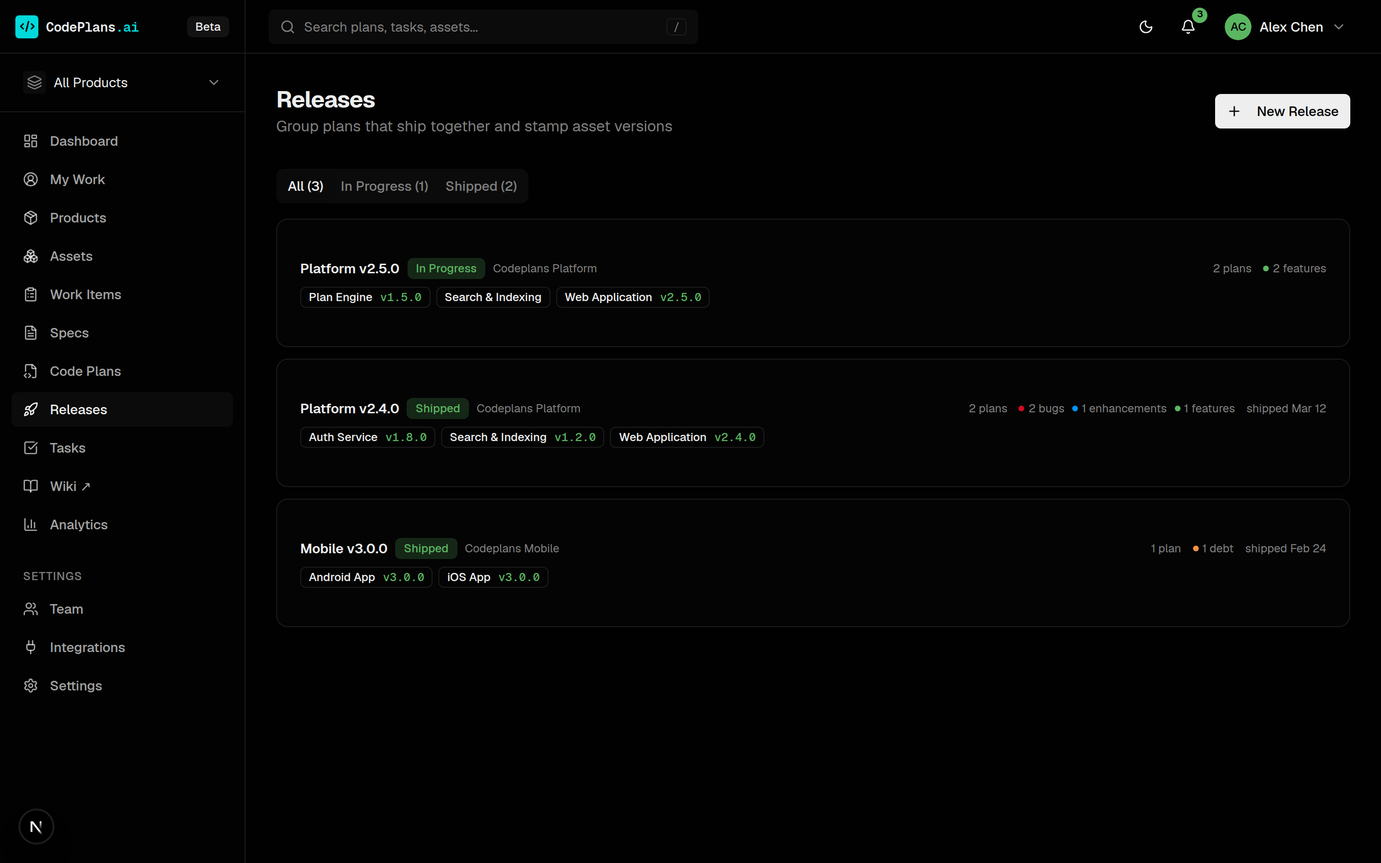
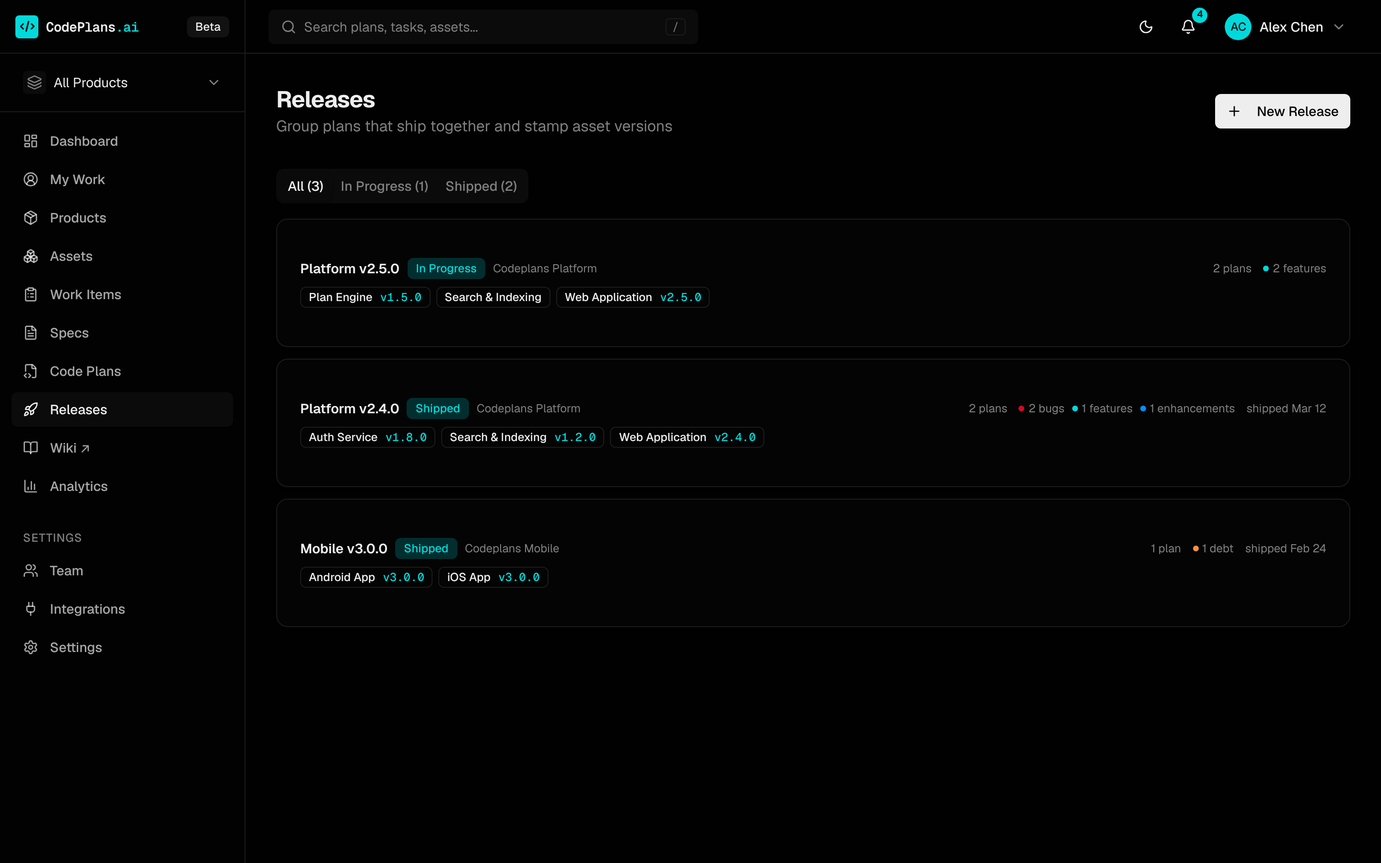
Docs site: retake every app screenshot with the teal accent
Retakes the 27 app screenshots on the site from the demo workspace
(pnpm db:seed-demo) in the same states as before, so they show the teal
accent and the current sidebar (no Tasks page). The notification shots use
real deliveries, sent to a local stand-in for Resend and Slack.

The wiki screenshots were taken from a private "Atlas Platform" workspace
that isn't in the repo; they are now from the demo product, with captions to
match. Image width and height attributes follow the new files, and the
unused search-results.png is gone. The email and Slack renderings are
unchanged; they don't use the app's accent.

Claude-Session: https://claude.ai/code/session_01S4TnKMMhfyax9SrxJkMcDM

diff --git a/docs/my-work.html b/docs/my-work.html
@@ -20,7 +20,7 @@
 </nav>
 <section class="page-hero"><div class="container"><div class="crumb"><a href="index.html">CodePlans</a> / My Work</div><h1>What needs you, and why</h1><p class="hero-sub">My Work turns responsibilities into a personal inbox. Notifications reach people in-app, by email and in Slack, with admin controls that stay simple for small teams.</p><div class="links"><a href="https://github.com/SylonZero/CodePlans/blob/master/docs/guides/my-work.md">My Work guide</a><a href="https://github.com/SylonZero/CodePlans/blob/master/docs/guides/notifications.md">Notifications guide</a></div></div></section>
 <main>
-<div class="container"><div class="feature-row"><div class="row-text"><div class="section-label">My Work</div><h2>An inbox shaped by your responsibilities</h2><p><strong>Needs you</strong> lists what is blocked on you, each item starting with a verb and saying why it is yours (for example <em>code owner · API Gateway</em>). <strong>In flight</strong> groups your tasks by plan with their specs, and <strong>Watching</strong> shows changes to things you are responsible for.</p><p>If you hold several responsibilities, <strong>View as</strong> switches between Developer, Code owner, Architect and Eng manager lenses.</p><p><a class="more" href="https://github.com/SylonZero/CodePlans/blob/master/docs/guides/my-work.md">Read the guide →</a></p></div><div class="row-media"><figure class="shot "><a href="screenshots/my-work.png" aria-label="Open full size: Mike’s My Work as a code owner: plan reviews, triage and mentions"><img src="screenshots/my-work.png" alt="Mike’s My Work as a code owner: plan reviews, triage and mentions" width="2880" height="1800" loading="lazy"></a></figure></div></div><div class="feature-row flip"><div class="row-text"><div class="section-label">Lenses</div><h2>Each role gets its own panels</h2><p>Engineering managers see plans at risk, release readiness and work merged but not shipped. Architects see reviews in their area. Code owners see their assets and capabilities delivered against an older spec.</p><p><strong>Evidence gaps</strong> ask the person who can fix the record: a completed plan with no PR, a release asset with no version stamp, a feature never graduated.</p></div><div class="row-media"><figure class="shot "><a href="screenshots/my-work-manager.png" aria-label="Open full size: Alex’s My Work as an engineering manager, with triage and an evidence gap"><img src="screenshots/my-work-manager.png" alt="Alex’s My Work as an engineering manager, with triage and an evidence gap" width="2880" height="1800" loading="lazy"></a></figure></div></div><div class="feature-row"><div class="row-text"><div class="section-label">The bell</div><h2>Notifications with a reason</h2><p>The bell shows unread notifications. Each says why you got it, and nobody is told about their own actions. Opening one marks it read; items can be marked done or snoozed from My Work.</p></div><div class="row-media"><figure class="shot plain"><a href="screenshots/notification-bell.png" aria-label="Open full size: The notification bell with a mention and review requests"><img src="screenshots/notification-bell.png" alt="The notification bell with a mention and review requests" width="1174" height="1038" loading="lazy"></a></figure></div></div><div class="feature-row flip"><div class="row-text"><div class="section-label">Email & Slack</div><h2>Delivered where your team already is</h2><p>Admins connect <strong>Resend</strong> (an API key and a verified sender) and a <strong>Slack incoming webhook</strong>, then choose which events notify in-app, by email and in Slack. Test sends show the provider’s answer, and keys are encrypted at rest.</p><ul><li><strong>Required</strong> events (review requests, changes requested, mentions) always reach people in-app.</li><li>Sends go through an outbox with retries and backoff, visible under Recent deliveries.</li></ul><p><a class="more" href="https://github.com/SylonZero/CodePlans/blob/master/docs/guides/notifications.md">Read the guide →</a></p></div><div class="row-media"><figure class="shot "><a href="screenshots/notification-settings.png" aria-label="Open full size: Workspace notifications: Resend and Slack connected, and the events table"><img src="screenshots/notification-settings.png" alt="Workspace notifications: Resend and Slack connected, and the events table" width="2880" height="1800" loading="lazy"></a></figure></div></div><div class="feature-row"><div class="row-text"><h2>One template, two channels</h2><p>Email explains why you were told and links to your settings. Slack gets one post per event, worded for the whole channel.</p></div><div class="row-media"><div class="shot-grid"><figure class="shot plain"><a href="screenshots/notification-email.png" aria-label="Open full size: A review request email"><img src="screenshots/notification-email.png" alt="A review request email" width="1280" height="800" loading="lazy"></a></figure><figure class="shot plain"><a href="screenshots/notification-slack.png" aria-label="Open full size: The same event posted to Slack"><img src="screenshots/notification-slack.png" alt="The same event posted to Slack" width="1280" height="520" loading="lazy"></a></figure></div><div style="margin-top:20px"><figure class="shot plain"><a href="screenshots/notification-deliveries.png" aria-label="Open full size: Recent deliveries: emails and a Slack post, all sent"><img src="screenshots/notification-deliveries.png" alt="Recent deliveries: emails and a Slack post, all sent" width="2240" height="758" loading="lazy"></a></figure></div></div></div><div class="feature-row flip"><div class="row-text"><div class="section-label">Your settings</div><h2>Turn email down, mute what you don’t need</h2><p>Anyone can turn off all email or email for single events, which only ever narrows what admins turned on. <strong>Mute</strong> on a product or asset page stops notifications about it, except review requests and mentions.</p></div><div class="row-media"><div class="shot-stack"><figure class="shot "><a href="screenshots/notification-preferences.png" aria-label="Open full size: Personal email settings per event"><img src="screenshots/notification-preferences.png" alt="Personal email settings per event" width="2880" height="1800" loading="lazy"></a></figure><figure class="shot plain"><a href="screenshots/notification-mutes.png" aria-label="Open full size: Muted products and assets with an Unmute button"><img src="screenshots/notification-mutes.png" alt="Muted products and assets with an Unmute button" width="2304" height="364" loading="lazy"></a></figure></div></div></div></div>
+<div class="container"><div class="feature-row"><div class="row-text"><div class="section-label">My Work</div><h2>An inbox shaped by your responsibilities</h2><p><strong>Needs you</strong> lists what is blocked on you, each item starting with a verb and saying why it is yours (for example <em>code owner · API Gateway</em>). <strong>In flight</strong> groups your tasks by plan with their specs, and <strong>Watching</strong> shows changes to things you are responsible for.</p><p>If you hold several responsibilities, <strong>View as</strong> switches between Developer, Code owner, Architect and Eng manager lenses.</p><p><a class="more" href="https://github.com/SylonZero/CodePlans/blob/master/docs/guides/my-work.md">Read the guide →</a></p></div><div class="row-media"><figure class="shot "><a href="screenshots/my-work.png" aria-label="Open full size: Mike’s My Work as a code owner: plan reviews, triage and mentions"><img src="screenshots/my-work.png" alt="Mike’s My Work as a code owner: plan reviews, triage and mentions" width="2880" height="1800" loading="lazy"></a></figure></div></div><div class="feature-row flip"><div class="row-text"><div class="section-label">Lenses</div><h2>Each role gets its own panels</h2><p>Engineering managers see plans at risk, release readiness and work merged but not shipped. Architects see reviews in their area. Code owners see their assets and capabilities delivered against an older spec.</p><p><strong>Evidence gaps</strong> ask the person who can fix the record: a completed plan with no PR, a release asset with no version stamp, a feature never graduated.</p></div><div class="row-media"><figure class="shot "><a href="screenshots/my-work-manager.png" aria-label="Open full size: Alex’s My Work as an engineering manager, with triage and an evidence gap"><img src="screenshots/my-work-manager.png" alt="Alex’s My Work as an engineering manager, with triage and an evidence gap" width="2880" height="1800" loading="lazy"></a></figure></div></div><div class="feature-row"><div class="row-text"><div class="section-label">The bell</div><h2>Notifications with a reason</h2><p>The bell shows unread notifications. Each says why you got it, and nobody is told about their own actions. Opening one marks it read; items can be marked done or snoozed from My Work.</p></div><div class="row-media"><figure class="shot plain"><a href="screenshots/notification-bell.png" aria-label="Open full size: The notification bell with a mention and review requests"><img src="screenshots/notification-bell.png" alt="The notification bell with a mention and review requests" width="808" height="1130" loading="lazy"></a></figure></div></div><div class="feature-row flip"><div class="row-text"><div class="section-label">Email & Slack</div><h2>Delivered where your team already is</h2><p>Admins connect <strong>Resend</strong> (an API key and a verified sender) and a <strong>Slack incoming webhook</strong>, then choose which events notify in-app, by email and in Slack. Test sends show the provider’s answer, and keys are encrypted at rest.</p><ul><li><strong>Required</strong> events (review requests, changes requested, mentions) always reach people in-app.</li><li>Sends go through an outbox with retries and backoff, visible under Recent deliveries.</li></ul><p><a class="more" href="https://github.com/SylonZero/CodePlans/blob/master/docs/guides/notifications.md">Read the guide →</a></p></div><div class="row-media"><figure class="shot "><a href="screenshots/notification-settings.png" aria-label="Open full size: Workspace notifications: Resend and Slack connected, and the events table"><img src="screenshots/notification-settings.png" alt="Workspace notifications: Resend and Slack connected, and the events table" width="2880" height="1800" loading="lazy"></a></figure></div></div><div class="feature-row"><div class="row-text"><h2>One template, two channels</h2><p>Email explains why you were told and links to your settings. Slack gets one post per event, worded for the whole channel.</p></div><div class="row-media"><div class="shot-grid"><figure class="shot plain"><a href="screenshots/notification-email.png" aria-label="Open full size: A review request email"><img src="screenshots/notification-email.png" alt="A review request email" width="1280" height="800" loading="lazy"></a></figure><figure class="shot plain"><a href="screenshots/notification-slack.png" aria-label="Open full size: The same event posted to Slack"><img src="screenshots/notification-slack.png" alt="The same event posted to Slack" width="1280" height="520" loading="lazy"></a></figure></div><div style="margin-top:20px"><figure class="shot plain"><a href="screenshots/notification-deliveries.png" aria-label="Open full size: Recent deliveries: emails and a Slack post, all sent"><img src="screenshots/notification-deliveries.png" alt="Recent deliveries: emails and a Slack post, all sent" width="2240" height="1076" loading="lazy"></a></figure></div></div></div><div class="feature-row flip"><div class="row-text"><div class="section-label">Your settings</div><h2>Turn email down, mute what you don’t need</h2><p>Anyone can turn off all email or email for single events, which only ever narrows what admins turned on. <strong>Mute</strong> on a product or asset page stops notifications about it, except review requests and mentions.</p></div><div class="row-media"><div class="shot-stack"><figure class="shot "><a href="screenshots/notification-preferences.png" aria-label="Open full size: Personal email settings per event"><img src="screenshots/notification-preferences.png" alt="Personal email settings per event" width="2880" height="1800" loading="lazy"></a></figure><figure class="shot plain"><a href="screenshots/notification-mutes.png" aria-label="Open full size: Muted products and assets with an Unmute button"><img src="screenshots/notification-mutes.png" alt="Muted products and assets with an Unmute button" width="2240" height="300" loading="lazy"></a></figure></div></div></div></div>
 </main>
 <div class="container"><div class="page-nav"><a href="reviews.html"><span>← Previous</span>Reviews</a><a class="next" href="agents.html"><span>Next →</span>AI agents</a></div></div>
 <footer>

diff --git a/docs/specs.html b/docs/specs.html
@@ -21,10 +21,10 @@
 <section class="page-hero"><div class="container"><div class="crumb"><a href="index.html">CodePlans</a> / Specs & Wiki</div><h1>Keep the spec connected to what shipped</h1><p class="hero-sub">Specs describe intent. CodePlans keeps every version, shows what changed, and records which version each delivered capability implemented. The Product Wiki makes it all readable.</p><div class="links"><a href="https://github.com/SylonZero/CodePlans/blob/master/docs/guides/using-specs.md">Specs guide</a><a href="https://github.com/SylonZero/CodePlans/blob/master/docs/guides/product-wiki.md">Wiki guide</a><a href="https://github.com/SylonZero/CodePlans/blob/master/docs/guides/capturing-docs.md">Capturing a docs corpus</a></div></div></section>
 <main>
 <div class="container"><div class="feature-row"><div class="row-text"><div class="section-label">Native specs</div><h2>Specs that live next to the work</h2><p>Author a spec in CodePlans, give it a type and optional area, and link one document to the assets, plans and work items it governs. Plans declare whether they <strong>create</strong>, <strong>revise</strong> or <strong>reference</strong> it.</p><p>The Specs page separates current specs from those <strong>in review</strong> (including fresh imports waiting to be checked) and the archive.</p><p><a class="more" href="https://github.com/SylonZero/CodePlans/blob/master/docs/guides/using-specs.md">Read the guide →</a></p></div><div class="row-media"><figure class="shot "><a href="screenshots/specs.png" aria-label="Open full size: The Specs list with current, in review and archived tabs"><img src="screenshots/specs.png" alt="The Specs list with current, in review and archived tabs" width="2880" height="1800" loading="lazy"></a></figure></div></div><div class="feature-row flip"><div class="row-text"><div class="section-label">Version history</div><h2>Every revision kept, every change visible</h2><p>Each change to the title or text is a new version with its full text retained. Open any earlier version read-only, or diff it against its predecessor. Activating, archiving or reclassifying a spec happens in place from the action bar at the top of the page: no new version, and approvals stay put.</p><p>When a capability was delivered against v1 and the spec moves to v2, the asset record shows both, without rewriting the delivery receipt.</p></div><div class="row-media"><figure class="shot "><a href="screenshots/spec-history.png" aria-label="Open full size: Changes from v2 to v3 of a spec, with the version history below"><img src="screenshots/spec-history.png" alt="Changes from v2 to v3 of a spec, with the version history below" width="2880" height="1800" loading="lazy"></a></figure></div></div><div class="feature-row"><div class="row-text"><div class="section-label">Editor</div><h2>Write specs in a proper editor</h2><p><strong>Edit</strong> slides a wide editor in from the side, with a toolbar for headings, lists, task lists, tables, code, links and Mermaid diagrams. Paste markdown from a README or a chat and it becomes formatting; switch to <strong>Markdown</strong> to edit the source directly.</p><p>Text is stored as clean markdown, the same text agents read over MCP. Saving creates the next version with an optional change summary; type and area save in place on the Details tab.</p><p><a class="more" href="https://github.com/SylonZero/CodePlans/blob/master/docs/guides/using-specs.md#writing-in-the-editor">Read the guide →</a></p></div><div class="row-media"><figure class="shot "><a href="screenshots/spec-editor.png" aria-label="Open full size: The slide-in spec editor with a pasted markdown table and task list"><img src="screenshots/spec-editor.png" alt="The slide-in spec editor with a pasted markdown table and task list" width="2880" height="1800" loading="lazy"></a></figure></div></div><div class="feature-row stack"><div class="row-text"><div class="section-label">Product Wiki</div><h2>A wiki assembled from the work you already record</h2><p>Open Wiki from the main navigation in its own tab. Read the architecture, documents, decisions and delivery history around every asset, with creator and editor attribution and import provenance. Missing metadata stays explicitly unknown.</p><p><a class="more" href="https://github.com/SylonZero/CodePlans/blob/master/docs/guides/product-wiki.md">Read the guide →</a></p></div><div class="row-media"><div class="shot-grid" style="margin-top:8px">
-<figure class="shot wide"><a href="screenshots/wiki-overview.png" aria-label="Open full size: Product Wiki overview: the Atlas demo architecture by layer, with specs awaiting review"><img src="screenshots/wiki-overview.png" alt="Product Wiki overview: the Atlas demo architecture by layer, with specs awaiting review" width="2880" height="2160" loading="lazy"></a><figcaption><strong>Browse by layer.</strong> Every asset’s documents, plans and delivery history in one place.</figcaption></figure>
-<figure class="shot "><a href="screenshots/wiki-asset.png" aria-label="Open full size: An asset wiki page with capabilities, current specs, attribution and dependencies"><img src="screenshots/wiki-asset.png" alt="An asset wiki page with capabilities, current specs, attribution and dependencies" width="2880" height="2160" loading="lazy"></a><figcaption><strong>Follow an asset’s story.</strong> Jump from a capability or spec to the records behind it.</figcaption></figure>
-<figure class="shot "><a href="screenshots/wiki-reader.png" aria-label="Open full size: The wiki reader with version, author, a GFM table and a section outline"><img src="screenshots/wiki-reader.png" alt="The wiki reader with version, author, a GFM table and a section outline" width="2880" height="2160" loading="lazy"></a><figcaption><strong>Read in comfort.</strong> Tables, code and prose stay readable, with versions and authors close at hand.</figcaption></figure>
-<figure class="shot wide"><a href="screenshots/wiki-search.png" aria-label="Open full size: Wiki search highlighting a technical identifier inside spec excerpts"><img src="screenshots/wiki-search.png" alt="Wiki search highlighting a technical identifier inside spec excerpts" width="2880" height="2160" loading="lazy"></a><figcaption><strong>Find the detail you remember.</strong> Search identifiers, headings and areas with product-scoped filters.</figcaption></figure>
+<figure class="shot wide"><a href="screenshots/wiki-overview.png" aria-label="Open full size: Product Wiki overview: the demo platform's assets by layer, with documents awaiting review"><img src="screenshots/wiki-overview.png" alt="Product Wiki overview: the demo platform's assets by layer, with documents awaiting review" width="2880" height="2160" loading="lazy"></a><figcaption><strong>Browse by layer.</strong> Every asset’s documents, plans and delivery history in one place.</figcaption></figure>
+<figure class="shot "><a href="screenshots/wiki-asset.png" aria-label="Open full size: An asset wiki page with a recorded capability, specs, attribution and dependencies"><img src="screenshots/wiki-asset.png" alt="An asset wiki page with a recorded capability, specs, attribution and dependencies" width="2880" height="2160" loading="lazy"></a><figcaption><strong>Follow an asset’s story.</strong> Jump from a capability or spec to the records behind it.</figcaption></figure>
+<figure class="shot "><a href="screenshots/wiki-reader.png" aria-label="Open full size: The wiki reader with version, author, associated assets and a section outline"><img src="screenshots/wiki-reader.png" alt="The wiki reader with version, author, associated assets and a section outline" width="2880" height="2160" loading="lazy"></a><figcaption><strong>Read in comfort.</strong> Tables, code and prose stay readable, with versions and authors close at hand.</figcaption></figure>
+<figure class="shot wide"><a href="screenshots/wiki-search.png" aria-label="Open full size: Wiki search highlighting a term across work items, plans, specs and capabilities"><img src="screenshots/wiki-search.png" alt="Wiki search highlighting a term across work items, plans, specs and capabilities" width="2880" height="2160" loading="lazy"></a><figcaption><strong>Find the detail you remember.</strong> Search identifiers, headings and areas with product-scoped filters.</figcaption></figure>
 </div>
 <p class="demo-note">Wiki screenshots are from a synthetic Atlas demo workspace.</p></div></div></div><section class="section"><div class="container"><div class="section-label">Upgrading</div><h2>Bring existing Markdown specs across</h2>
 <p class="section-sub">Apply the normal migrations, then preview the product-scoped legacy URL import. The importer deduplicates source URLs, puts imports in review, and keeps later native edits on reruns.</p>

diff --git a/docs/reviews.html b/docs/reviews.html
@@ -20,7 +20,7 @@
 </nav>
 <section class="page-hero"><div class="container"><div class="crumb"><a href="index.html">CodePlans</a> / Reviews</div><h1>Review the direction before the work starts</h1><p class="hero-sub">Code owners, architects and engineering managers review plans and specs at a pinned version, discuss them in context, and see only what is theirs to decide. Small teams can leave it all optional.</p><div class="links"><a href="https://github.com/SylonZero/CodePlans/blob/master/docs/guides/reviews-and-comments.md">Reviews & comments guide</a><a href="https://github.com/SylonZero/CodePlans/blob/master/docs/guides/enterprise-extensions.md">Enterprise extensions</a></div></div></section>
 <main>
-<div class="container"><div class="feature-row"><div class="row-text"><div class="section-label">Responsibilities</div><h2>Who reviews what comes from who owns what</h2><p>Org roles decide what someone may do. <strong>Responsibilities</strong> decide who is asked: engineering managers and architects (optionally for an area) per product, and code owners per asset. They route reviews, triage and notifications; they never grant permissions.</p><p>Each product picks a workflow: <strong>Open</strong> (the default; reviews are optional) or <strong>Guided</strong> (reviewers are suggested from responsibilities, and activating unapproved work asks for confirmation).</p></div><div class="row-media"><figure class="shot "><a href="screenshots/product-people.png" aria-label="Open full size: A product’s People &amp; reviews tab: workflow level, engineering managers, architects and code owners"><img src="screenshots/product-people.png" alt="A product’s People &amp; reviews tab: workflow level, engineering managers, architects and code owners" width="2880" height="1800" loading="lazy"></a></figure></div></div><div class="feature-row flip"><div class="row-text"><div class="section-label">Plan review</div><h2>Review the plan before effort is spent</h2><p>A PR review comes after the work is done. A <strong>plan review</strong> lets code owners stop a misdirected change before any tokens or people are spent on it. Suggested reviewers come from the plan’s target assets and the product’s responsibilities.</p><ul><li>Approvals are pinned to a <strong>revision</strong>. Changing the plan’s scope, specs or description asks reviewers to look again.</li><li>Agents can request reviews and comment, but only people approve.</li></ul><p><a class="more" href="https://github.com/SylonZero/CodePlans/blob/master/docs/guides/reviews-and-comments.md">Read the guide →</a></p></div><div class="row-media"><figure class="shot "><a href="screenshots/plan-review.png" aria-label="Open full size: A plan review waiting on a code owner and an engineering manager"><img src="screenshots/plan-review.png" alt="A plan review waiting on a code owner and an engineering manager" width="2880" height="1800" loading="lazy"></a></figure></div></div><div class="feature-row"><div class="row-text"><div class="section-label">Spec review</div><h2>Approve a version, not a moving target</h2><p>Reviewers approve, request changes or comment on a specific spec version. A later revision marks earlier approvals <strong>outdated</strong>, and approvers and plan owners are told. Required reviewers must approve before the review completes.</p></div><div class="row-media"><figure class="shot "><a href="screenshots/spec-review.png" aria-label="Open full size: A spec in review with an architect as a required reviewer"><img src="screenshots/spec-review.png" alt="A spec in review with an architect as a required reviewer" width="2880" height="1800" loading="lazy"></a></figure></div></div><div class="feature-row flip"><div class="row-text"><div class="section-label">Discussion</div><h2>Feedback anchored to the text</h2><p>Select text in a spec to comment on it, ask a question or suggest a change. Threads can be resolved, @mentions notify people, and anchors survive later revisions (or say when the quoted text changed). Viewers can comment too.</p></div><div class="row-media"><figure class="shot plain"><a href="screenshots/spec-discussion.png" aria-label="Open full size: An anchored question with a reply mentioning a teammate, and a suggestion"><img src="screenshots/spec-discussion.png" alt="An anchored question with a reply mentioning a teammate, and a suggestion" width="1856" height="1110" loading="lazy"></a></figure></div></div></div>
+<div class="container"><div class="feature-row"><div class="row-text"><div class="section-label">Responsibilities</div><h2>Who reviews what comes from who owns what</h2><p>Org roles decide what someone may do. <strong>Responsibilities</strong> decide who is asked: engineering managers and architects (optionally for an area) per product, and code owners per asset. They route reviews, triage and notifications; they never grant permissions.</p><p>Each product picks a workflow: <strong>Open</strong> (the default; reviews are optional) or <strong>Guided</strong> (reviewers are suggested from responsibilities, and activating unapproved work asks for confirmation).</p></div><div class="row-media"><figure class="shot "><a href="screenshots/product-people.png" aria-label="Open full size: A product’s People &amp; reviews tab: workflow level, engineering managers, architects and code owners"><img src="screenshots/product-people.png" alt="A product’s People &amp; reviews tab: workflow level, engineering managers, architects and code owners" width="2880" height="1800" loading="lazy"></a></figure></div></div><div class="feature-row flip"><div class="row-text"><div class="section-label">Plan review</div><h2>Review the plan before effort is spent</h2><p>A PR review comes after the work is done. A <strong>plan review</strong> lets code owners stop a misdirected change before any tokens or people are spent on it. Suggested reviewers come from the plan’s target assets and the product’s responsibilities.</p><ul><li>Approvals are pinned to a <strong>revision</strong>. Changing the plan’s scope, specs or description asks reviewers to look again.</li><li>Agents can request reviews and comment, but only people approve.</li></ul><p><a class="more" href="https://github.com/SylonZero/CodePlans/blob/master/docs/guides/reviews-and-comments.md">Read the guide →</a></p></div><div class="row-media"><figure class="shot "><a href="screenshots/plan-review.png" aria-label="Open full size: A plan review waiting on a code owner and an engineering manager"><img src="screenshots/plan-review.png" alt="A plan review waiting on a code owner and an engineering manager" width="2880" height="1800" loading="lazy"></a></figure></div></div><div class="feature-row"><div class="row-text"><div class="section-label">Spec review</div><h2>Approve a version, not a moving target</h2><p>Reviewers approve, request changes or comment on a specific spec version. A later revision marks earlier approvals <strong>outdated</strong>, and approvers and plan owners are told. Required reviewers must approve before the review completes.</p></div><div class="row-media"><figure class="shot "><a href="screenshots/spec-review.png" aria-label="Open full size: A spec in review with an architect as a required reviewer"><img src="screenshots/spec-review.png" alt="A spec in review with an architect as a required reviewer" width="2880" height="1800" loading="lazy"></a></figure></div></div><div class="feature-row flip"><div class="row-text"><div class="section-label">Discussion</div><h2>Feedback anchored to the text</h2><p>Select text in a spec to comment on it, ask a question or suggest a change. Threads can be resolved, @mentions notify people, and anchors survive later revisions (or say when the quoted text changed). Viewers can comment too.</p></div><div class="row-media"><figure class="shot plain"><a href="screenshots/spec-discussion.png" aria-label="Open full size: An anchored question with a reply mentioning a teammate, and a suggestion"><img src="screenshots/spec-discussion.png" alt="An anchored question with a reply mentioning a teammate, and a suggestion" width="1792" height="1096" loading="lazy"></a></figure></div></div></div>
 </main>
 <div class="container"><div class="page-nav"><a href="specs.html"><span>← Previous</span>Specs &amp; Wiki</a><a class="next" href="my-work.html"><span>Next →</span>My Work</a></div></div>
 <footer>

diff --git a/docs/index.html b/docs/index.html
@@ -44,7 +44,7 @@
 <div class="loop"><div class="loop-step"><h3>Capture demand</h3><p>Features, bugs and debt land on the assets they touch, natively or mirrored from your tracker.</p><a href="plan.html">Work items →</a></div><div class="loop-step"><h3>Plan the change</h3><p>A code plan targets assets, links the specs it builds on, and breaks into tasks.</p><a href="plan.html">Code plans →</a></div><div class="loop-step"><h3>Review before effort</h3><p>Code owners and architects approve the plan and its specs at a pinned version.</p><a href="reviews.html">Reviews →</a></div><div class="loop-step"><h3>Deliver and ship</h3><p>PRs, tasks and releases track delivery; each shipped capability records the spec version it implemented.</p><a href="assets.html">Asset record →</a></div><div class="loop-step"><h3>Keep people in the loop</h3><p>My Work, the bell, email and Slack tell each person what needs them, and why.</p><a href="my-work.html">My Work →</a></div></div></div></section><section class="section"><div class="container"><div class="section-label">Explore</div>
 <h2>What's inside</h2>
 <p class="section-sub">Screenshots throughout come from the demo workspace (<code>pnpm db:seed-demo</code>). Click any screenshot to see it full size.</p>
-<div class="explore-grid"><a class="explore-card" href="plan.html"><img src="screenshots/plans.png" alt="" loading="lazy" width="1440" height="900"><div class="body"><div class="tag">Plan & deliver</div><h3>Plans, work items and releases</h3><p>Coordinate changes across assets, track the demand behind them, and ship them together with per-asset versions.</p><div class="go">Explore →</div></div></a><a class="explore-card" href="assets.html"><img src="screenshots/asset-map.png" alt="" loading="lazy" width="1440" height="900"><div class="body"><div class="tag">Assets</div><h3>The Atlas and the asset record</h3><p>A live system map, a version-structured history and a capabilities register built from delivered work.</p><div class="go">Explore →</div></div></a><a class="explore-card" href="specs.html"><img src="screenshots/spec-history.png" alt="" loading="lazy" width="1440" height="900"><div class="body"><div class="tag">Specs & Wiki</div><h3>Versioned specs and a product wiki</h3><p>Author specs in CodePlans, see every revision and diff, and read the whole product as a connected library.</p><div class="go">Explore →</div></div></a><a class="explore-card" href="reviews.html"><img src="screenshots/spec-review.png" alt="" loading="lazy" width="1440" height="900"><div class="body"><div class="tag">Reviews</div><h3>Reviews, comments and responsibilities</h3><p>Code owners review plans before effort starts. Approvals pin to a version, and discussion anchors to the text.</p><div class="go">Explore →</div></div></a><a class="explore-card" href="my-work.html"><img src="screenshots/my-work.png" alt="" loading="lazy" width="1440" height="900"><div class="body"><div class="tag">My Work</div><h3>My Work and notifications</h3><p>An inbox shaped by your responsibilities, a bell, and email or Slack delivery your admins control.</p><div class="go">Explore →</div></div></a><a class="explore-card" href="agents.html"><img src="screenshots/asset-record.png" alt="" loading="lazy" width="1440" height="900"><div class="body"><div class="tag">AI agents</div><h3>Built for coding agents</h3><p>An MCP server with 75 tools: agents read the map, write the record, and join reviews and discussion.</p><div class="go">Explore →</div></div></a></div></div></section><section class="section"><div class="container"><div class="feature-row" style="border-top:0;padding:0"><div class="row-text"><div class="section-label">Search</div><h2>Find anything in a keystroke</h2><p>Press <code>/</code> or <code>⌘K</code> anywhere to search products, assets, plans, tasks, work items, specs and releases across every product you can see. Every word must match; quote a phrase to keep it together.</p><p><strong>See all results</strong> opens a full page with counts and a tab per type, and agents get the same search as the <code>search</code> MCP tool.</p></div><div class="row-media"><figure class="shot "><a href="screenshots/search.png" aria-label="Open full size: The search palette showing an asset, a plan, a task, work items and a spec matching auth"><img src="screenshots/search.png" alt="The search palette showing an asset, a plan, a task, work items and a spec matching auth" width="2880" height="1800" loading="lazy"></a></figure></div></div></div></section>
+<div class="explore-grid"><a class="explore-card" href="plan.html"><img src="screenshots/plans.png" alt="" loading="lazy" width="2880" height="1800"><div class="body"><div class="tag">Plan & deliver</div><h3>Plans, work items and releases</h3><p>Coordinate changes across assets, track the demand behind them, and ship them together with per-asset versions.</p><div class="go">Explore →</div></div></a><a class="explore-card" href="assets.html"><img src="screenshots/asset-map.png" alt="" loading="lazy" width="2880" height="1800"><div class="body"><div class="tag">Assets</div><h3>The Atlas and the asset record</h3><p>A live system map, a version-structured history and a capabilities register built from delivered work.</p><div class="go">Explore →</div></div></a><a class="explore-card" href="specs.html"><img src="screenshots/spec-history.png" alt="" loading="lazy" width="2880" height="1800"><div class="body"><div class="tag">Specs & Wiki</div><h3>Versioned specs and a product wiki</h3><p>Author specs in CodePlans, see every revision and diff, and read the whole product as a connected library.</p><div class="go">Explore →</div></div></a><a class="explore-card" href="reviews.html"><img src="screenshots/spec-review.png" alt="" loading="lazy" width="2880" height="1800"><div class="body"><div class="tag">Reviews</div><h3>Reviews, comments and responsibilities</h3><p>Code owners review plans before effort starts. Approvals pin to a version, and discussion anchors to the text.</p><div class="go">Explore →</div></div></a><a class="explore-card" href="my-work.html"><img src="screenshots/my-work.png" alt="" loading="lazy" width="2880" height="1800"><div class="body"><div class="tag">My Work</div><h3>My Work and notifications</h3><p>An inbox shaped by your responsibilities, a bell, and email or Slack delivery your admins control.</p><div class="go">Explore →</div></div></a><a class="explore-card" href="agents.html"><img src="screenshots/asset-record.png" alt="" loading="lazy" width="2880" height="1800"><div class="body"><div class="tag">AI agents</div><h3>Built for coding agents</h3><p>An MCP server with 75 tools: agents read the map, write the record, and join reviews and discussion.</p><div class="go">Explore →</div></div></a></div></div></section><section class="section"><div class="container"><div class="feature-row" style="border-top:0;padding:0"><div class="row-text"><div class="section-label">Search</div><h2>Find anything in a keystroke</h2><p>Press <code>/</code> or <code>⌘K</code> anywhere to search products, assets, plans, tasks, work items, specs and releases across every product you can see. Every word must match; quote a phrase to keep it together.</p><p><strong>See all results</strong> opens a full page with counts and a tab per type, and agents get the same search as the <code>search</code> MCP tool.</p></div><div class="row-media"><figure class="shot "><a href="screenshots/search.png" aria-label="Open full size: The search palette showing an asset, a plan, a task, work items and a spec matching auth"><img src="screenshots/search.png" alt="The search palette showing an asset, a plan, a task, work items and a spec matching auth" width="2880" height="1800" loading="lazy"></a></figure></div></div></div></section>
 <section class="section"><div class="container"><div class="section-label">Get started</div>
 <h2>Up and running in minutes</h2>
 <p class="section-sub">Local SQLite mode needs no cloud account and no API keys.</p>
